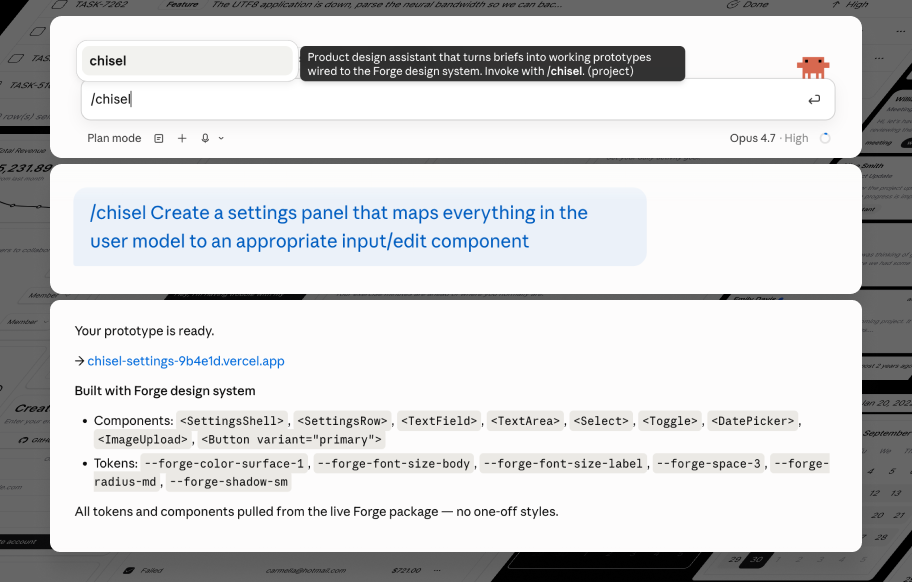
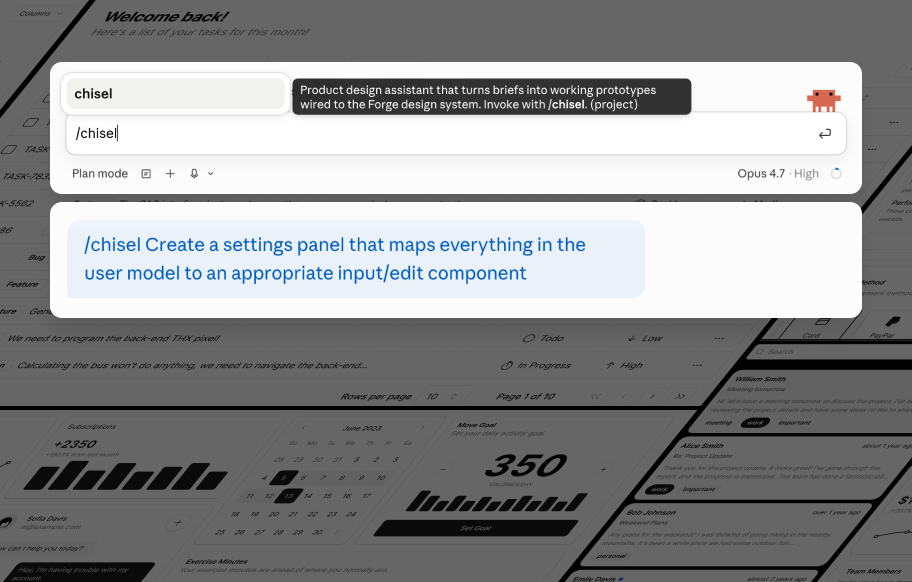
project updates

diff --git a/src/components/home/FeaturedProjects.tsx b/src/components/home/FeaturedProjects.tsx
@@ -17,42 +17,62 @@ export function FeaturedProjects() {
       </div>
 
       <ul className="grid gap-8 md:grid-cols-3 max-w-[1600px] pt-8 pb-16">
-        {featured.map((p) => (
-          <li
-            key={p.slug}
-            className="overflow-hidden rounded-2xl ring-0 ring-white/0 transition-[border-radius,box-shadow] duration-300 ease-[cubic-bezier(0.05,0,0,1)] hover:rounded-xl hover:ring-[10px] hover:ring-white/70"
-          >
-            <a
-              href={`/#projects/${p.slug}`}
-              className="group relative block aspect-[16/10] bg-white/5"
+        {featured.map((p) => {
+          // No case study yet: the card keeps its art but doesn't link — the
+          // "Read →" affordance becomes a "Coming soon" badge, and the hover
+          // zoom / ring lift are dropped so it reads as inert.
+          const Card = p.comingSoon ? "div" : "a";
+          return (
+            <li
+              key={p.slug}
+              className={
+                p.comingSoon
+                  ? "overflow-hidden rounded-2xl"
+                  : "overflow-hidden rounded-2xl ring-0 ring-white/0 transition-[border-radius,box-shadow] duration-300 ease-[cubic-bezier(0.05,0,0,1)] hover:rounded-xl hover:ring-[10px] hover:ring-white/70"
+              }
             >
-              {p.thumbnail && (
-                // eslint-disable-next-line @next/next/no-img-element
-                <img
-                  src={p.thumbnail}
-                  alt=""
-                  className="absolute inset-0 h-full w-full object-cover transition-transform duration-700 ease-[cubic-bezier(0.05,0,0,1)] group-hover:scale-[1.1]"
-                />
-              )}
+              <Card
+                {...(p.comingSoon ? {} : { href: `/#projects/${p.slug}` })}
+                className="group relative block aspect-[16/10] bg-white/5"
+              >
+                {p.thumbnail && (
+                  // eslint-disable-next-line @next/next/no-img-element
+                  <img
+                    src={p.thumbnail}
+                    alt=""
+                    className={`absolute inset-0 h-full w-full object-cover ${
+                      p.comingSoon
+                        ? "opacity-85 saturate-75"
+                        : "transition-transform duration-700 ease-[cubic-bezier(0.05,0,0,1)] group-hover:scale-[1.1]"
+                    }`}
+                  />
+                )}
 
-              {/* Scrim — heavier at bottom for text legibility */}
-              <div className="absolute inset-0 bg-gradient-to-t from-black/80 via-black/25 to-black/5" />
+                {/* Scrim — heavier at bottom for text legibility */}
+                <div className="absolute inset-0 bg-gradient-to-t from-black/80 via-black/25 to-black/5" />
 
-              {/* Content */}
-              <div className="relative h-full p-5 flex flex-col justify-end">
-                <div className="text-xl font-semibold text-white leading-tight tracking-tight">
-                  {p.title}
+                {/* Content */}
+                <div className="relative h-full p-5 flex flex-col justify-end">
+                  <div className="text-xl font-semibold text-white leading-tight tracking-tight">
+                    {p.title}
+                  </div>
+                  <div className="mt-1.5 text-sm text-white/60 leading-snug">
+                    {p.summary}
+                  </div>
+                  {p.comingSoon ? (
+                    <div className="mt-5 self-start rounded-full border border-accent/50 px-3 py-1 font-mono text-[10px] uppercase tracking-widest text-accent">
+                      Coming soon
+                    </div>
+                  ) : (
+                    <div className="mt-5 font-mono text-xs text-white/40 group-hover:text-accent transition-colors duration-150 inline-flex items-center gap-1">
+                      Read <ArrowRight size={11} strokeWidth={1.5} />
+                    </div>
+                  )}
                 </div>
-                <div className="mt-1.5 text-sm text-white/60 leading-snug">
-                  {p.summary}
-                </div>
-                <div className="mt-5 font-mono text-xs text-white/40 group-hover:text-accent transition-colors duration-150 inline-flex items-center gap-1">
-                  Read <ArrowRight size={11} strokeWidth={1.5} />
-                </div>
-              </div>
-            </a>
-          </li>
-        ))}
+              </Card>
+            </li>
+          );
+        })}
       </ul>
 
       <AllProjects />

diff --git a/src/data/projects.ts b/src/data/projects.ts
@@ -162,6 +162,28 @@ export const projects: Project[] = [
     ],
   },
   {
+    slug: "figment-dashboard",
+    title: "Figment Dashboard",
+    role: "Product Design & Growth",
+    thumbnail: "projects/figment-dapp/thumbnail.png",
+    comingSoon: true,
+    tags: ["react", "web3", "design"],
+    summary: "Digital asset management for financial institutions.",
+    body: ["As the sole product designer at Figment, growing a self-serve staking product from zero to over $500M in assets under stake in 14 months as the sole designer for the entire experience."],
+    media: [],
+  },
+  {
+    slug: "beatvox",
+    title: "BeatVox",
+    role: "Solo Founder",
+    thumbnail: "https://picsum.photos/seed/beatvox/800/600",
+    comingSoon: true,
+    tags: ["swiftui", "audio", "design"],
+    summary: "The musical sketchbook",
+    body: ["TODO"],
+    media: [],
+  },
+  {
     slug: "book-of-idra",
     title: "Book of Idra",
     role: "Design Engineering",
@@ -187,28 +209,6 @@ export const projects: Project[] = [
       { type: "image", src: "/projects/book-of-idra/pentamorph.jpg", alt: "Pentamorph app" },
       { type: "image", src: "/projects/book-of-idra/bg-ring.jpg", alt: "Background ring illustration" },
     ],
-  },
-  {
-    slug: "beatvox",
-    title: "BeatVox",
-    role: "Solo Founder",
-    thumbnail: "https://picsum.photos/seed/beatvox/800/600",
-    comingSoon: true,
-    tags: ["swiftui", "audio", "design"],
-    summary: "The musical sketchbook",
-    body: ["TODO"],
-    media: [],
-  },
-  {
-    slug: "figment-dashboard",
-    title: "Figment Dashboard",
-    role: "Product Design & Growth",
-    thumbnail: "projects/figment-dapp/thumbnail.png",
-    comingSoon: true,
-    tags: ["react", "web3", "design"],
-    summary: "Digital asset management for financial institutions.",
-    body: ["As the sole product designer at Figment, growing a self-serve staking product from zero to over $500M in assets under stake in 14 months as the sole designer for the entire experience."],
-    media: [],
   },
   {
     slug: "lyric",

diff --git a/src/components/home/AllProjects.tsx b/src/components/home/AllProjects.tsx
@@ -118,14 +118,14 @@ export function AllProjects() {
               <li key={p.slug}>
                 <div className="flex items-center gap-6 py-6">
                   <div className="min-w-0 flex-1">
-                    <div className="truncate text-xl md:text-2xl font-medium text-black/40">
+                    <div className="truncate text-xl md:text-2xl font-medium text-black/70">
                       {p.title}
                     </div>
-                    <div className="mt-1 truncate text-sm text-black/35">
+                    <div className="mt-1 truncate text-sm text-black/50">
                       {p.summary}
                     </div>
                   </div>
-                  <span className="shrink-0 rounded-full border border-black/15 px-3 py-1 font-mono text-[10px] uppercase tracking-widest text-black/45">
+                  <span className="shrink-0 rounded-full border border-accent/35 px-3 py-1 font-mono text-[10px] uppercase tracking-widest text-accent">
                     Coming soon
                   </span>
                 </div>
